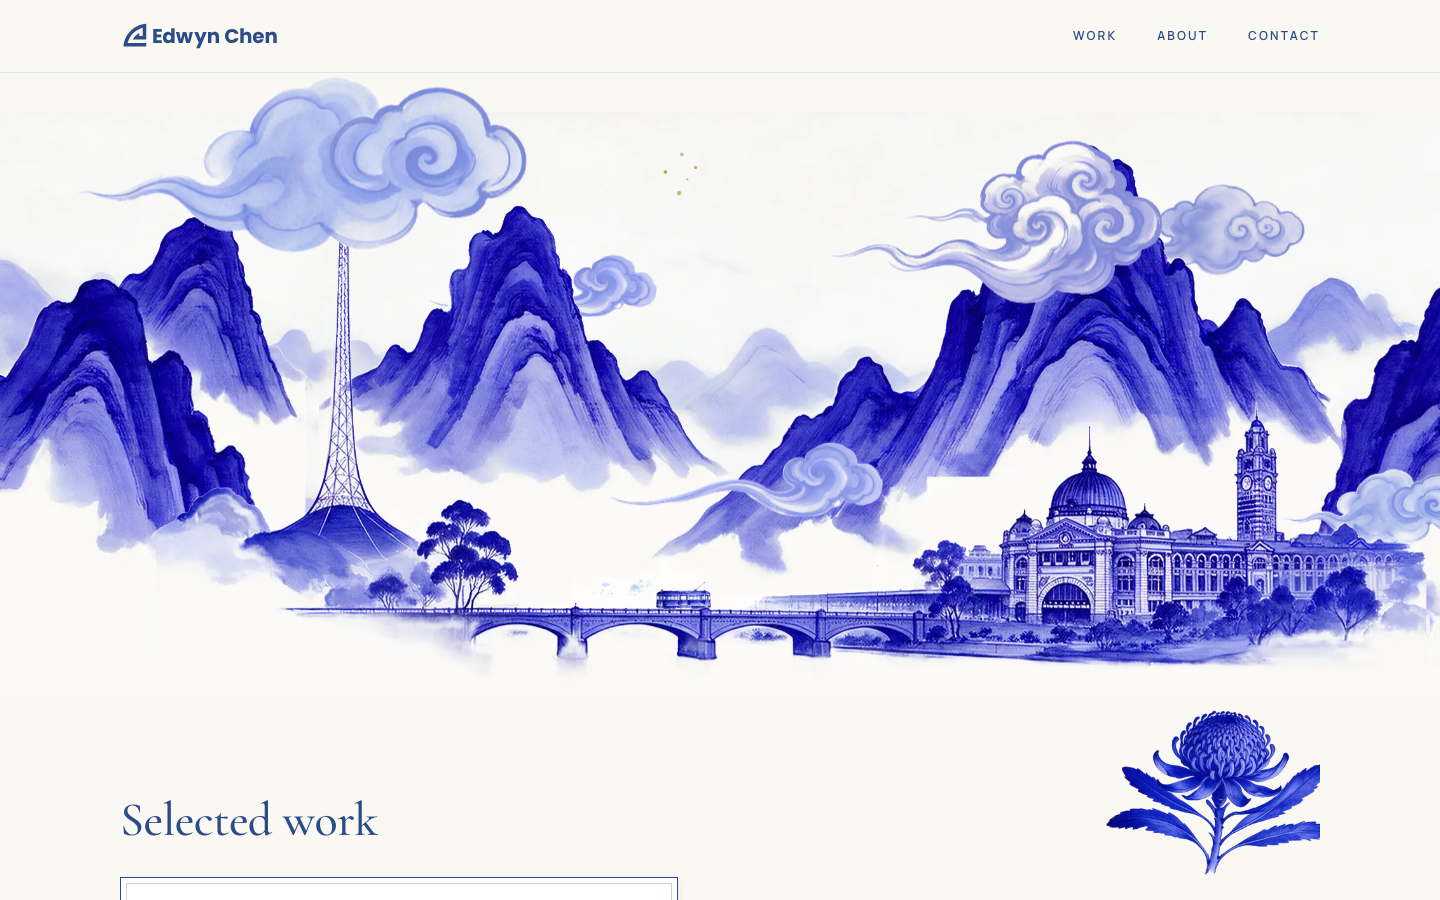
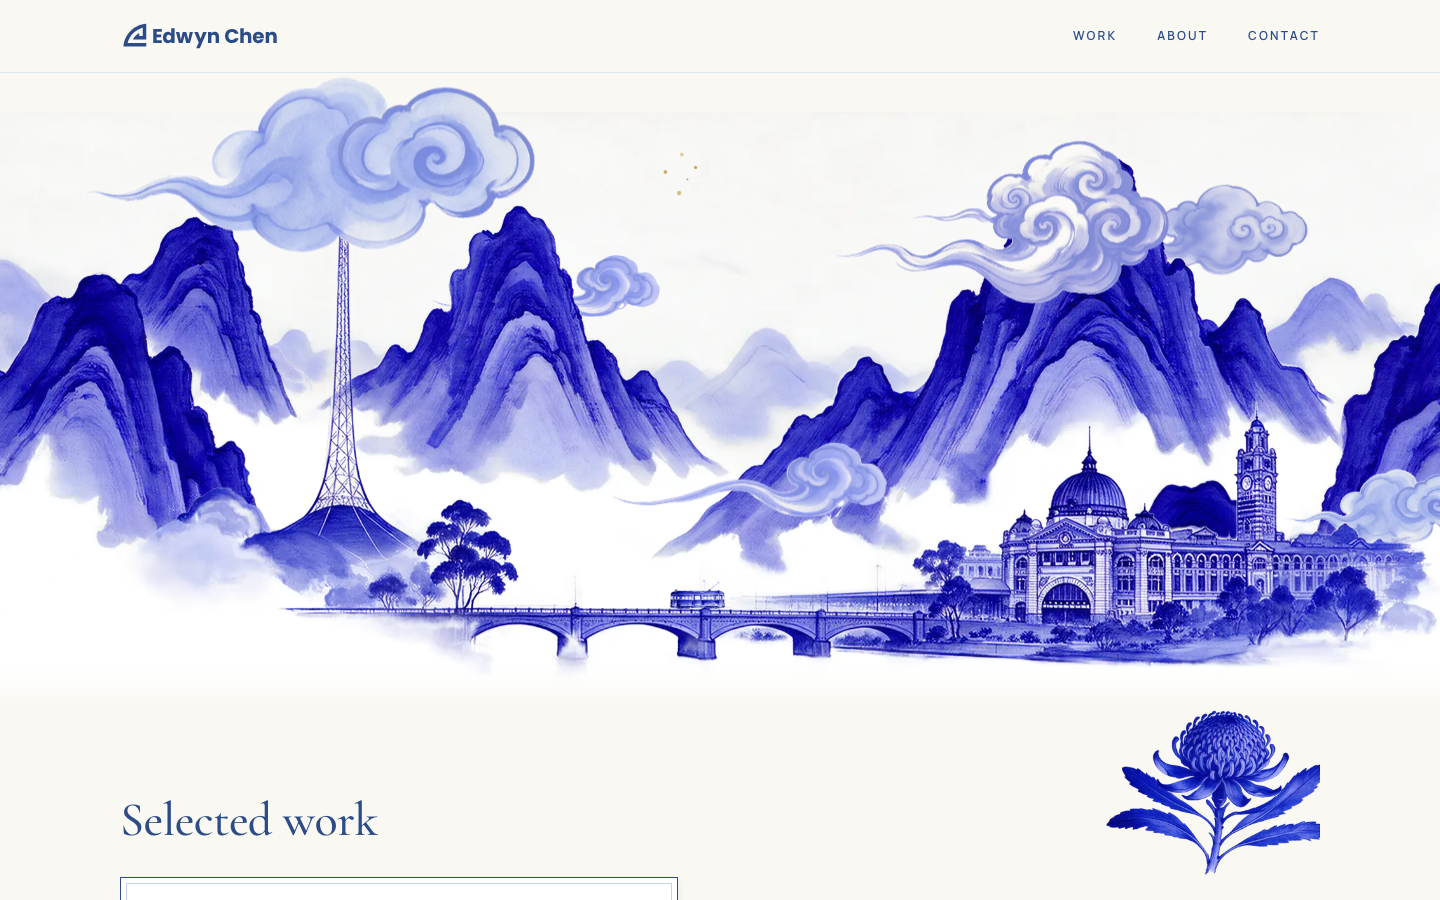
feat: Ed's hand-finished hero layers, outer peaks as their own parallax depth
Uses art/hero-source/mountains.png (centre peaks), 'mountain 2.png' (outer peaks, new layer at depth 0.29) and the updated 3-melbourne.png as-is, compressed to q60. Drops the unused cloud-n1. Hero assets 728KB.

diff --git a/tests/e2e/hero.spec.ts b/tests/e2e/hero.spec.ts
@@ -1,6 +1,6 @@
 import { expect, test } from '@playwright/test';
 
-const LAYERS = ['far', 'peaks', 'mid', 'tram'];
+const LAYERS = ['far', 'peaks', 'peaks-front', 'mid', 'tram'];
 
 test('hero scene loads every layer and cloud', async ({ page }) => {
   await page.goto('/');
